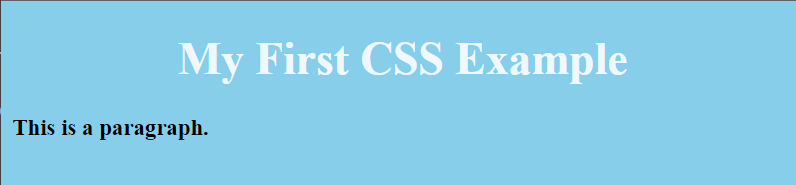
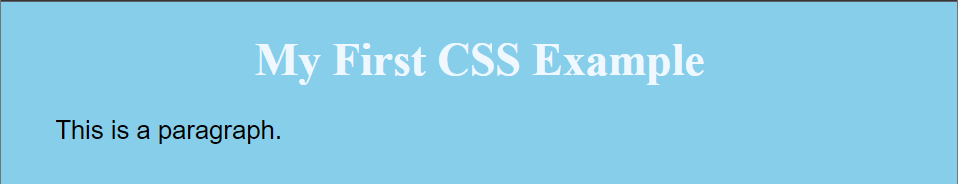
updated task 1

Changed region(s): [[0.2111, 0.2174, 0.7839, 0.462], [0.0, 0.0, 1.0, 1.0], [0.0, 0.625, 0.3015, 0.788]]

diff --git a/CSS/task1/style.css b/CSS/task1/style.css
@@ -7,3 +7,9 @@ h1{
         color:aliceblue
 }
 
+p{
+        font-size: 18px;
+        font-family: Arial, Helvetica, sans-serif;
+        position: relative;
+        padding-left: 30px;
+}

diff --git a/CSS/task1/index.html b/CSS/task1/index.html
@@ -12,7 +12,7 @@
         </h1> 
        
         <p>
-                <b>This is a paragraph.</b>
+                This is a paragraph.
         </p>
 </body>
 </html>
